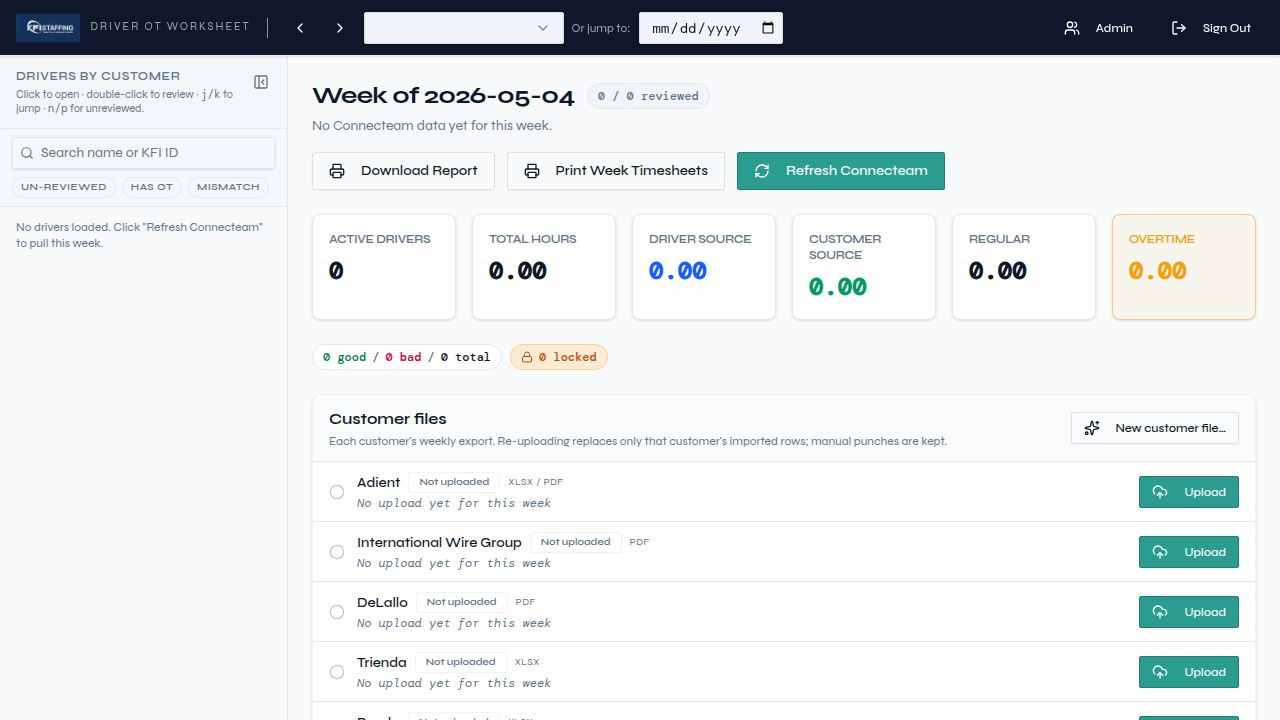
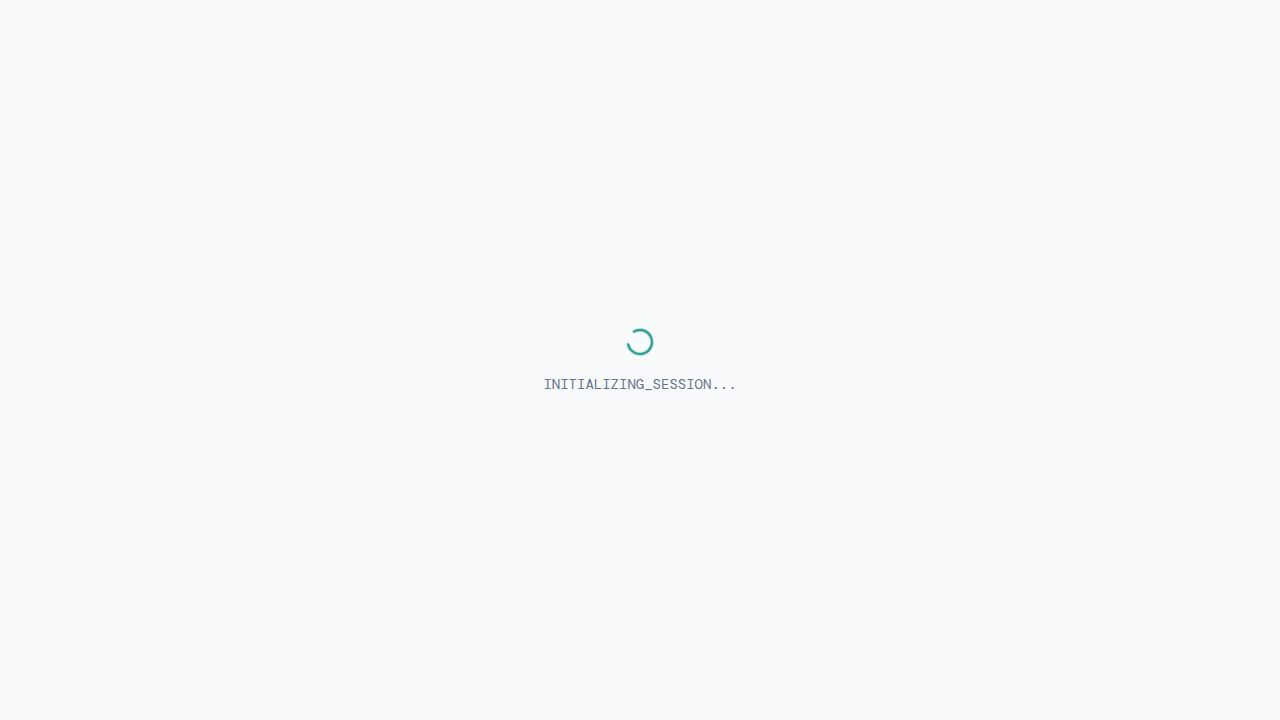
Task #115: Aesthetic polish — denser tables, clearer source colors
Driver-detail page changes:
- Removed the top stat-cards strip (Driver/Customer/Total/RT/OT). Added a
  "Total Hours" row to the existing Summary panel so every number the strip
  carried is still surfaced (Driver, Customer, Total, RT, OT, Driver RT,
  Driver OT all live in the Summary card).
- Removed the inline running-total mini progress bars (and the matching
  40h marker in the table header). Kept the conditional 40h color rule on
  the running-total cell — past-40h totals still render in `text-warning`.
- Bumped time / duration cell font from `text-sm` to `text-base` (font-mono
  preserved). Row height unchanged because the cells were already padded.
- Applied a subtle source-driven bg tint to time cells (Clock In, Clock Out,
  Hours): `bg-sidebar/[0.06]` (faint navy) for Driver-source rows,
  `bg-primary/[0.07]` (faint teal) for Customer-source rows. Tints stay
  legible on top of the OT highlight (`bg-warning/10`).
- Updated SourceBadge: Driver = solid navy (sidebar), Customer = solid
  primary (teal). Source-column text follows the same split. Legend dots in
  the title block now use navy + teal instead of blue + emerald to match.
- Removed now-dead helpers and locals: `StatCard` component, `scaleMax` /
  `otLinePct` math, and the unused `rtPortion` / `otPortion` fields on the
  rows array (kept `isOt` since it still drives the running-cell color).

Files: artifacts/kfi-ot/src/pages/driver-detail.tsx only.
[…]

diff --git a/artifacts/kfi-ot/src/pages/driver-detail.tsx b/artifacts/kfi-ot/src/pages/driver-detail.tsx
@@ -760,29 +760,24 @@ export default function DriverDetail() {
     return ta - tb;
   });
 
-  // Client-side running totals + OT split, mirroring hoursEngine.computeDriverTotals.
+  // Client-side running totals + OT flag, mirroring hoursEngine.computeDriverTotals.
+  // The OT flag drives the running-cell color rule (warning past 40h).
   let running = 0;
   const rows = sortedPunches.map((p) => {
     const before = running;
     const h = Number(p.hours) || 0;
     running = before + h;
-    // Per-row split: OT for this row = OT cumulative-after minus OT cumulative-before.
     const otBefore = Math.max(0, before - OT_THRESHOLD);
     const otAfter = Math.max(0, running - OT_THRESHOLD);
     const otPortion = otAfter - otBefore;
-    const rtPortion = h - otPortion;
     // Highlight rows whose cumulative hours cross or sit at/past the 40h line.
     const isOt = otPortion > 0.0001 || running >= OT_THRESHOLD - 0.0001;
-    return { p, before, after: running, hours: h, rtPortion, otPortion, isOt };
+    return { p, after: running, isOt };
   });
 
   const customerLabel = isCustomerNameUseful(data.driver.customer)
     ? data.driver.customer
     : "Needs roster cleanup";
-
-  // Bar scale: 40 + a buffer so OT shows as visibly past the line.
-  const scaleMax = Math.max(OT_THRESHOLD * 1.1, running * 1.02, OT_THRESHOLD + 4);
-  const otLinePct = (OT_THRESHOLD / scaleMax) * 100;
 
   return (
     <div className="min-h-[100dvh] flex flex-col bg-background">
@@ -948,11 +943,11 @@ export default function DriverDetail() {
           </p>
           <div className="flex flex-wrap items-center gap-x-5 gap-y-1 text-xs text-muted-foreground pt-1 print:hidden">
             <span className="inline-flex items-center gap-1.5">
-              <span className="h-2 w-2 rounded-full bg-blue-600 dark:bg-blue-400" />
+              <span className="h-2 w-2 rounded-full bg-sidebar" />
               Driver (ConnectTeam)
             </span>
             <span className="inline-flex items-center gap-1.5">
-              <span className="h-2 w-2 rounded-full bg-emerald-600 dark:bg-emerald-400" />
+              <span className="h-2 w-2 rounded-full bg-primary" />
               Customer (Timesheet)
             </span>
             <span className="inline-flex items-center gap-1.5">
@@ -1048,32 +1043,6 @@ export default function DriverDetail() {
           </Card>
         )}
 
-        {/* Compact stat cards */}
-        <div className="grid grid-cols-2 sm:grid-cols-3 md:grid-cols-5 gap-3">
-          <StatCard
-            label="Driver Hours"
-            value={data.totals.driverHours}
-            valueClass="text-blue-600 dark:text-blue-400"
-          />
-          <StatCard
-            label="Customer Hours"
-            value={data.totals.customerHours}
-            valueClass="text-emerald-600 dark:text-emerald-400"
-          />
-          <StatCard label="Total Hours" value={data.totals.totalHours} />
-          <StatCard
-            label="Regular (RT)"
-            value={data.totals.regularHours}
-            valueClass="text-emerald-700 dark:text-emerald-400"
-          />
-          <StatCard
-            label="Overtime (OT)"
-            value={data.totals.overtimeHours}
-            valueClass="text-warning"
-            cardClass="border-warning/40"
-          />
-        </div>
-
         {/* Summary + Checks panels — surface the per-source RT/OT split and an
             independent re-derivation, so any divergence is obvious. */}
         <SummaryAndChecks
@@ -1151,23 +1120,7 @@ export default function DriverDetail() {
                   <TableHead className="uppercase text-[11px] tracking-wider">Clock In</TableHead>
                   <TableHead className="uppercase text-[11px] tracking-wider">Clock Out</TableHead>
                   <TableHead className="text-right uppercase text-[11px] tracking-wider w-[80px]">Hours</TableHead>
-                  <TableHead className="uppercase text-[11px] tracking-wider min-w-[220px]">
-                    <div className="flex items-center gap-2">
-                      <div className="relative flex-1 min-w-[120px] h-4">
-                        <div
-                          className="absolute top-0 bottom-0 w-px bg-warning/70"
-                          style={{ left: `${otLinePct}%` }}
-                        />
-                        <span
-                          className="absolute -top-0.5 text-[9px] font-mono font-semibold text-warning tracking-tight whitespace-nowrap -translate-x-1/2"
-                          style={{ left: `${otLinePct}%` }}
-                        >
-                          40h OT
-                        </span>
-                      </div>
-                      <span className="w-12 text-right normal-case tracking-wider">Running</span>
-                    </div>
-                  </TableHead>
+                  <TableHead className="text-right uppercase text-[11px] tracking-wider w-[90px]">Running</TableHead>
                   <TableHead className="text-right uppercase text-[11px] tracking-wider w-[100px]">Type</TableHead>
                   <TableHead className="text-right w-[90px] print:hidden"></TableHead>
                 </TableRow>
@@ -1180,15 +1133,16 @@ export default function DriverDetail() {
                     </TableCell>
                   </TableRow>
                 )}
-                {rows.map(({ p, before, after, isOt, rtPortion, otPortion }) => {
+                {rows.map(({ p, after, isOt }) => {
                   const isEditing = editingPunchId === p.id;
                   const isDriver = p.source === "Driver";
-                  const rtPctOfRow = (rtPortion / scaleMax) * 100;
-                  const otPctOfRow = (otPortion / scaleMax) * 100;
-                  // Within "before", how much was already RT vs OT (for the lighter "completed" portion).
-                  const beforeRtPct = (Math.min(before, OT_THRESHOLD) / scaleMax) * 100;
-                  const beforeOtPct = (Math.max(0, before - OT_THRESHOLD) / scaleMax) * 100;
                   const remaining = OT_THRESHOLD - after;
+                  // Source-driven faint bg wash on time cells: navy for Driver,
+                  // teal for Customer. Subtle, but unmistakable at a glance and
+                  // still readable on top of the OT highlight (bg-warning/10).
+                  const sourceCellTint = isDriver
+                    ? "bg-sidebar/[0.06] dark:bg-sidebar-accent/30"
+                    : "bg-primary/[0.07] dark:bg-primary/15";
                   const tooltipLine =
                     remaining > 0.0001
                       ? `${remaining.toFixed(2)}h until OT`
@@ -1235,7 +1189,7 @@ export default function DriverDetail() {
                           </div>
                         )}
                       </TableCell>
-                      <TableCell className="font-mono text-sm whitespace-nowrap">
+                      <TableCell className={cn("font-mono text-base whitespace-nowrap", sourceCellTint)}>
                         {isEditing ? (
                           <Input
                             autoFocus
@@ -1258,7 +1212,7 @@ export default function DriverDetail() {
                           formatClockCell(p.clockIn)
                         )}
                       </TableCell>
-                      <TableCell className="font-mono text-sm whitespace-nowrap">
+                      <TableCell className={cn("font-mono text-base whitespace-nowrap", sourceCellTint)}>
                         {isEditing ? (
                           <Input
                             className="h-8 w-28 font-mono text-sm"
@@ -1280,7 +1234,7 @@ export default function DriverDetail() {
                           formatClockCell(p.clockOut)
                         )}
                       </TableCell>
-                      <TableCell className="text-right font-mono font-medium">
+                      <TableCell className={cn("text-right font-mono font-medium text-base", sourceCellTint)}>
                         {isEditing && editPreview
                           ? editPreview.hours.toFixed(2)
                           : p.hours.toFixed(2)}
@@ -1300,60 +1254,18 @@ export default function DriverDetail() {
                           </div>
                         )}
                       </TableCell>
-                      <TableCell>
+                      <TableCell className="text-right">
                         <TooltipProvider delayDuration={150}>
                           <Tooltip>
                             <TooltipTrigger asChild>
-                              <div className="flex items-center gap-2 cursor-help">
-                                <div className="relative h-1.5 flex-1 min-w-[120px] bg-muted rounded-full overflow-hidden print:hidden">
-                                  {/* "Already accumulated" lighter base */}
-                                  {beforeRtPct > 0 && (
-                                    <div
-                                      className="absolute top-0 left-0 h-full bg-blue-300/60 dark:bg-blue-400/30"
-                                      style={{ width: `${beforeRtPct}%` }}
-                                    />
-                                  )}
-                                  {beforeOtPct > 0 && (
-                                    <div
-                                      className="absolute top-0 h-full bg-warning/40"
-                                      style={{ left: `${otLinePct}%`, width: `${beforeOtPct}%` }}
-                                    />
-                                  )}
-                                  {/* This-row RT portion */}
-                                  {rtPctOfRow > 0 && (
-                                    <div
-                                      className={cn(
-                                        "absolute top-0 h-full",
-                                        isDriver ? "bg-blue-700 dark:bg-blue-400" : "bg-emerald-600 dark:bg-emerald-400",
-                                      )}
-                                      style={{ left: `${beforeRtPct}%`, width: `${rtPctOfRow}%` }}
-                                    />
-                                  )}
-                                  {/* This-row OT portion */}
-                                  {otPctOfRow > 0 && (
-                                    <div
-                                      className="absolute top-0 h-full bg-warning"
-                                      style={{
-                                        left: `${otLinePct + beforeOtPct}%`,
-                                        width: `${otPctOfRow}%`,
-                                      }}
-                                    />
-                                  )}
-                                  {/* OT threshold marker */}
-                                  <div
-                                    className="absolute top-0 h-full w-px bg-warning/70"
-                                    style={{ left: `${otLinePct}%` }}
-                                  />
-                                </div>
-                                <span
-                                  className={cn(
-                                    "font-mono text-xs tabular-nums w-12 text-right",
-                                    isOt ? "text-warning" : "text-muted-foreground",
-                                  )}
-                                >
-                                  {after.toFixed(2)}
-                                </span>
-                              </div>
+                              <span
+                                className={cn(
+                                  "font-mono text-base tabular-nums cursor-help",
+                                  isOt ? "text-warning font-semibold" : "text-muted-foreground",
+                                )}
+                              >
+                                {after.toFixed(2)}
+                              </span>
                             </TooltipTrigger>
                             <TooltipContent side="top" className="font-mono text-[11px] leading-relaxed">
                               <div>Cumulative: {after.toFixed(2)}h</div>
@@ -1365,9 +1277,7 @@ export default function DriverDetail() {
                       <TableCell
                         className={cn(
                           "text-right font-medium text-sm",
-                          isDriver
-                            ? "text-blue-600 dark:text-blue-400"
-                            : "text-emerald-600 dark:text-emerald-400",
+                          isDriver ? "text-sidebar dark:text-sidebar-foreground" : "text-primary",
                         )}
                       >
                         {p.source}
@@ -1785,6 +1695,7 @@ function SummaryAndChecks({
           <dl className="divide-y divide-border">
             <SummaryRow label="Total Driver" value={totDriver} testId="row-summary-total-driver" />
             <SummaryRow label="Total Customer" value={totCust} testId="row-summary-total-customer" />
+            <SummaryRow label="Total Hours" value={total} testId="row-summary-total-hours" />
             <SummaryRow label="RT" value={rt} testId="row-summary-rt" />
             <SummaryRow
               label="OT"
@@ -1884,31 +1795,6 @@ function SummaryRow({
         {value.toFixed(2)}
       </dd>
     </div>
-  );
-}
-
-function StatCard({
-  label,
-  value,
-  valueClass,
-  cardClass,
-}: {
-  label: string;
-  value: number;
-  valueClass?: string;
-  cardClass?: string;
-}) {
-  return (
-    <Card className={cn("py-0", cardClass)}>
-      <CardContent className="px-4 py-3">
-        <div className="text-[10px] uppercase tracking-wider text-muted-foreground font-semibold">
-          {label}
-        </div>
-        <div className={cn("text-2xl font-mono font-bold leading-tight mt-1 tabular-nums", valueClass)}>
-          {value.toFixed(2)}
-        </div>
-      </CardContent>
-    </Card>
   );
 }
 
@@ -2015,10 +1901,10 @@ function SourceBadge({ source }: { source: "Driver" | "Customer" | string }) {
   return (
     <span
       className={cn(
-        "inline-block text-[10px] font-semibold uppercase tracking-wider px-2 py-0.5 rounded-sm",
+        "inline-block text-[10px] font-semibold uppercase tracking-wider px-2 py-0.5 rounded-sm border",
         isDriver
-          ? "bg-sidebar text-sidebar-foreground"
-          : "bg-emerald-100 text-emerald-800 dark:bg-emerald-900/40 dark:text-emerald-300",
+          ? "bg-sidebar text-sidebar-foreground border-sidebar"
+          : "bg-primary text-primary-foreground border-primary",
       )}
     >
       {source}